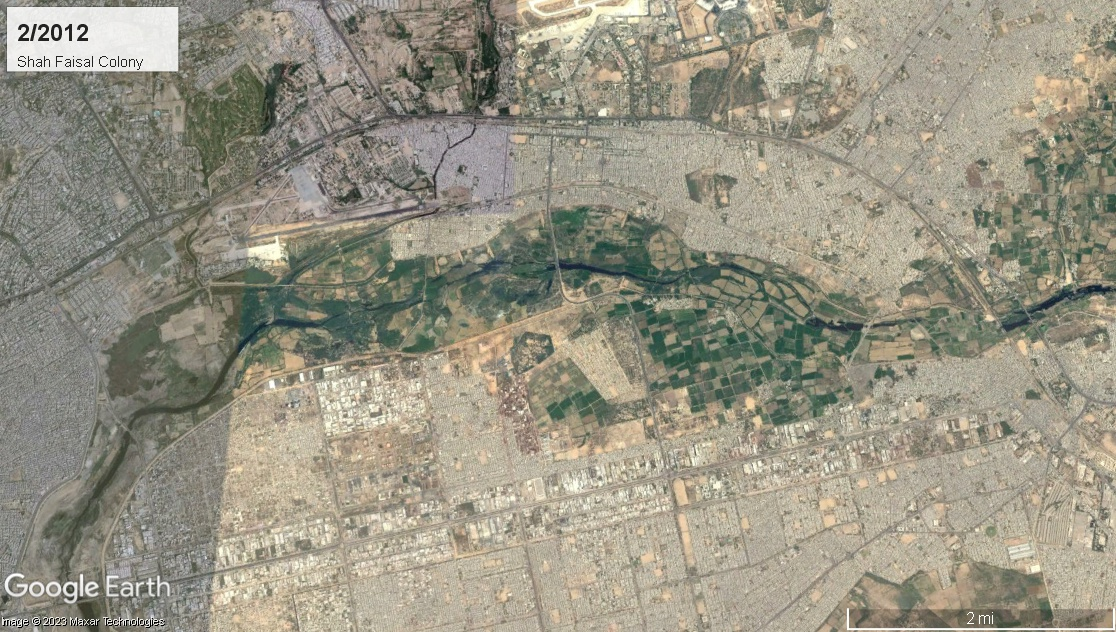
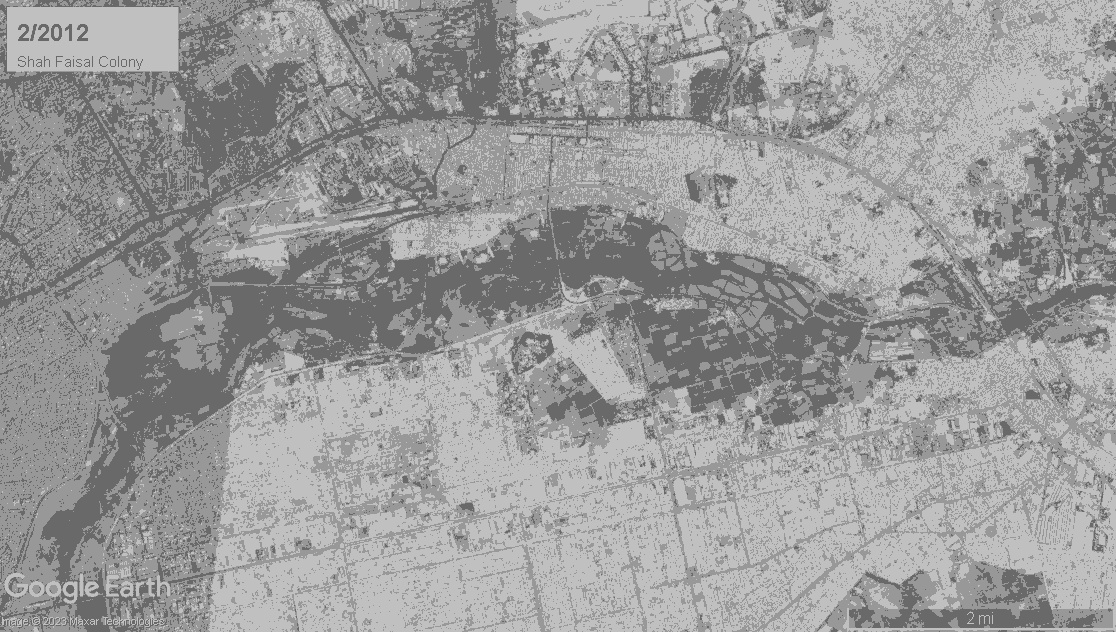
Added FCM segmented processed images

diff --git a/fcm_code.py b/fcm_code.py
@@ -103,7 +103,7 @@ if __name__ == "__main__":
     np.random.seed(42)
 
     # Image path
-    image_path = 'PIA11420~orig.jpg'
+    image_path = 'shah-faisal-2022.jpg'
 
     # Number of clusters
     n_clusters = 3
@@ -112,7 +112,7 @@ if __name__ == "__main__":
     fuzziness = 2.0
 
     # Save path for segmented image
-    save_path = 'segmented_image.jpg'
+    save_path = 'shah-faisal-2022.jpg'
     
     apply_fuzzy_c_means_to_image(image_path, n_clusters, fuzziness)
 
